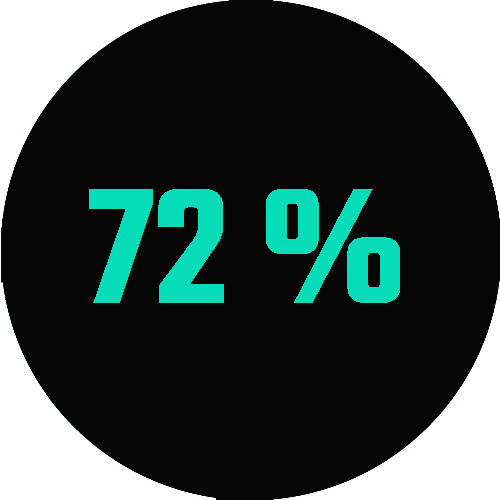
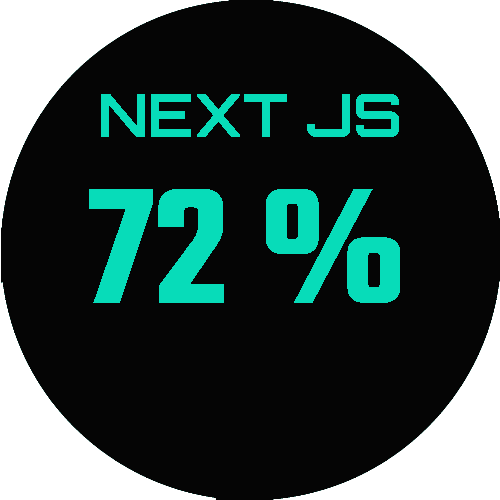
FinalizandoDetalles

Changed region(s): [[0.18, 0.18, 0.57, 0.3], [0.6, 0.18, 0.81, 0.3]]

diff --git a/pages/Components/Molecules/Graph/Graph.jsx b/pages/Components/Molecules/Graph/Graph.jsx
@@ -6,23 +6,28 @@ import Image from "next/image";
 import styles from "./Graph.module.css";
 import next from "../../../../img/next1.png";
 import js from "../../../../img/js2.png";
+import js85 from "../../../../img/85porJvs.png";
 import html from "../../../../img/html4.png";
+import html95 from "../../../../img/95porhtml.png";
 import css from "../../../../img/css4.png";
+import css85 from "../../../../img/85porCSS.png";
 import react from "../../../../img/react.png";
+import React78 from "../../../../img/78porREACT.png";
 import node from "../../../../img/nodejs.png";
+import node64 from "../../../../img/64porNJ.png";
 import wordpress from "../../../../img/Wordpress.png";
+import wordpress70 from "../../../../img/70porWORD.png";
 import photoshop from "../../../../img/photoshop.png";
+import ps85 from "../../../../img/85porPS.png";
 import strapi from "../../../../img/strapi.png";
+import strapi64 from "../../../../img/64porSTRAPI.png";
 import Angular from "../../../../img/anglular.png";
+import angular50 from "../../../../img/50porANGULAR.png";
 import unity from "../../../../img/unity.png";
+import unity50 from "../../../../img/50porUNITY.png";
 import gamem from "../../../../img/gamemaker.png";
-import novecinpor from "../../../../img/95por.png";
-import ochencinpor from "../../../../img/85por.png";
+import gamem50 from "../../../../img/50porGMS.png";
 import setentadospor from "../../../../img/72por.png";
-import setentaochopor from "../../../../img/78por.png";
-import setentapor from "../../../../img/70por.png";
-import sesentacuatropor from "../../../../img/64por.png";
-import cincuentapor from "../../../../img/50por.png";
 
 const Graph = () => {
   const [hold3, setHold3] = useState(false);
@@ -76,7 +81,7 @@ const Graph = () => {
             <Image
               size="small"
               className={styles.icon}
-              src={ochencinpor}
+              src={js85}
               alt="porcent"
             />
           </Reveal.Content>
@@ -91,7 +96,7 @@ const Graph = () => {
             <Image
               size="small"
               className={styles.icon}
-              src={novecinpor}
+              src={html95}
               alt="porcent"
             />
           </Reveal.Content>
@@ -106,7 +111,7 @@ const Graph = () => {
             <Image
               size="small"
               className={styles.icon}
-              src={ochencinpor}
+              src={css85}
               alt="porcent"
             />
           </Reveal.Content>
@@ -121,7 +126,7 @@ const Graph = () => {
             <Image
               size="small"
               className={styles.icon}
-              src={sesentacuatropor}
+              src={node64}
               alt="porcent"
             />
           </Reveal.Content>
@@ -136,7 +141,7 @@ const Graph = () => {
             <Image
               size="small"
               className={styles.icon}
-              src={setentaochopor}
+              src={React78}
               alt="porcent"
             />
           </Reveal.Content>
@@ -151,7 +156,7 @@ const Graph = () => {
             <Image
               size="small"
               className={styles.icon}
-              src={setentapor}
+              src={wordpress70}
               alt="porcent"
             />
           </Reveal.Content>
@@ -166,7 +171,7 @@ const Graph = () => {
             <Image
               size="small"
               className={styles.icon}
-              src={ochencinpor}
+              src={ps85}
               alt="porcent"
             />
           </Reveal.Content>
@@ -181,7 +186,7 @@ const Graph = () => {
             <Image
               size="small"
               className={styles.icon}
-              src={sesentacuatropor}
+              src={strapi64}
               alt="porcent"
             />
           </Reveal.Content>
@@ -196,7 +201,7 @@ const Graph = () => {
             <Image
               size="small"
               className={styles.icon}
-              src={cincuentapor}
+              src={angular50}
               alt="porcent"
             />
           </Reveal.Content>
@@ -211,7 +216,7 @@ const Graph = () => {
             <Image
               size="small"
               className={styles.icon}
-              src={cincuentapor}
+              src={unity50}
               alt="porcent"
             />
           </Reveal.Content>
@@ -226,7 +231,7 @@ const Graph = () => {
             <Image
               size="small"
               className={styles.icon}
-              src={cincuentapor}
+              src={gamem50}
               alt="porcent"
             />
           </Reveal.Content>

diff --git a/pages/Components/Organisms/Projects/Project.module.css b/pages/Components/Organisms/Projects/Project.module.css
@@ -31,11 +31,14 @@
     display: flex;
     flex-wrap: wrap;
     justify-content: center;
+
 }
 
 .card {
     padding: 0 !important;
     margin: 0 !important;
+    margin-right: 10px !important;
+    margin-bottom: 10px !important;
     width: 300px !important;
     animation-name: card !important;
     animation-duration: 2s !important;

diff --git a/pages/Components/Molecules/HeaderLg/HeaderLg.module.css b/pages/Components/Molecules/HeaderLg/HeaderLg.module.css
@@ -1,5 +1,5 @@
 .ImageFlat {
-    width: 40px;
+    width: 40px !important;
     height: 40px;
 }
 
